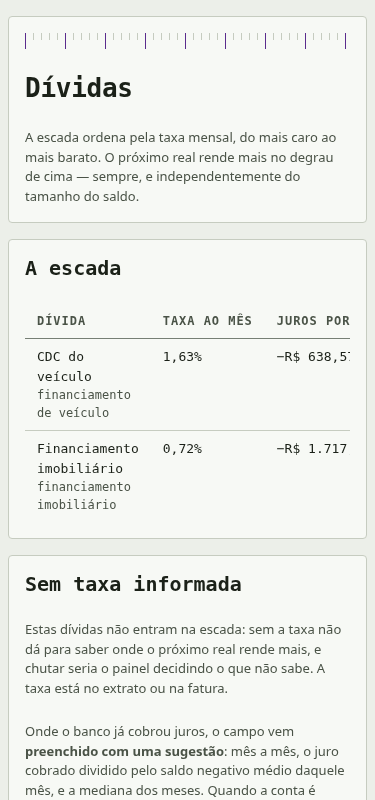
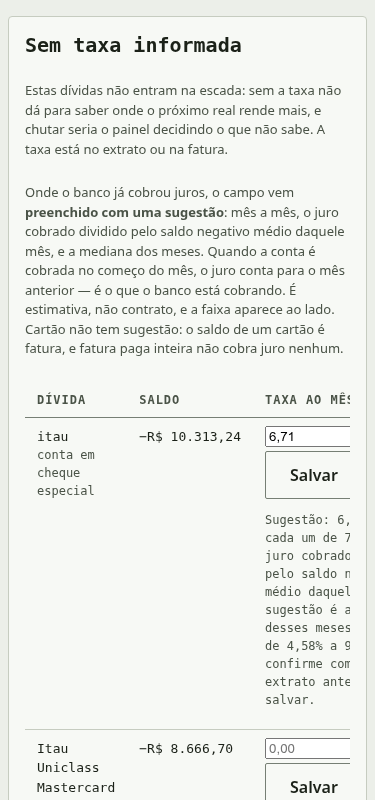
fix(014): the oldest month was measuring itself against its own truncation
Third blind verdict, approved, and the hunt found the last artefact. The
partial-month filter compared the negative days against the days the
reconstruction happens to hold, not against the calendar. The oldest month is
truncated by construction — the walk stops at the first movement — so it was
comparing itself to its own truncation and passing: fourteen of twenty-six
reconstructed days is over half, fourteen of thirty-one real days is not.

That month was the 3,13% floor of the CAIXA range. Its other months sit at 7,99,
8,00 and 8,16 — seventeen basis points apart, which is what a contracted
overdraft actually looks like. The range shown to the owner shrank from five
percentage points to seventeen basis points, and none of that was the bank.

And a month whose interest nets positive is no longer read as a charge: the base
carries five positive CREDITO JUROS postings, today on an account with a zero
balance, and taking the absolute value would read a refund as a rate.

diff --git a/app/debts/observed.py b/app/debts/observed.py
@@ -1,4 +1,5 @@
 import sqlite3
+from calendar import monthrange
 from datetime import date, timedelta
 
 from app.accounts import BANK
@@ -90,14 +91,14 @@ def _monthly_rates(
         charged = _charged_for(conn, account_id, month, arrears)
         if not charged:
             continue
-        in_month = [value for when, value in days.items() if when[:7] == month]
-        negative = [value for value in in_month if value < 0]
-        # A month with only a handful of days in the red divides a whole month of
-        # interest by a full average and reads far too low. It is the same
-        # distortion the month in progress caused, at the other end of the series
-        # — and the oldest month is partial by construction, because the walk
-        # stops at the first movement.
-        if len(negative) < len(in_month) * MIN_NEGATIVE_SHARE:
+        negative = [value for when, value in days.items() if when[:7] == month and value < 0]
+        # Measured against the days of the calendar month, not against the days
+        # the reconstruction happens to hold. The oldest month is truncated by
+        # construction — the walk stops at the first movement — so comparing it
+        # to its own truncated self lets it through: 14 of 26 reconstructed days
+        # passes, 14 of 31 real days does not. That is the same partial-month
+        # distortion the month in progress caused, surviving at the other end.
+        if len(negative) < _days_in(month) * MIN_NEGATIVE_SHARE:
             continue
         average = sum(negative) / len(negative)
         if abs(average) < MIN_BALANCE_CENTS:
@@ -113,13 +114,21 @@ def posts_in_arrears(conn: sqlite3.Connection, account_id: str) -> bool:
     return bool(days) and _median(days) <= EARLY_DAYS
 
 
+def _days_in(month: str) -> int:
+    return monthrange(int(month[:4]), int(month[5:7]))[1]
+
+
 def _charged_for(conn: sqlite3.Connection, account_id: str, month: str, arrears: bool) -> int:
     # The bank charges in arrears: the interest posted early in a month is the
     # price of the month before. Matching the posting to the month it was posted
     # in, instead of the month it remunerates, turned a contracted rate that
     # barely moves into a range three times wider than the real one.
     wanted = _next(month) if arrears else month
-    return conn.execute(_CHARGED, (account_id, wanted)).fetchone()["total"]
+    charged = conn.execute(_CHARGED, (account_id, wanted)).fetchone()["total"]
+    # Only money that left. A month whose interest line nets positive — a refund
+    # larger than the charge — is not a month the bank charged for, and taking
+    # its absolute value would read a credit as a rate.
+    return charged if charged < 0 else 0
 
 
 def _next(month: str) -> str:

diff --git a/tests/test_observed_rates.py b/tests/test_observed_rates.py
@@ -151,3 +151,37 @@ def test_the_month_in_progress_is_left_out(taxonomy_conn):
 
     assert "2026-09" not in months
     assert months
+
+
+def test_a_truncated_oldest_month_is_measured_against_the_calendar(taxonomy_conn):
+    from app.debts.observed import _monthly_rates, daily_balances
+
+    # The walk starts here, so June holds 26 reconstructed days, not 30.
+    rows = [transaction("c", "2026-06-05", -3000.0, descricao="Compra")]
+    rows += [
+        transaction(f"p-{day}", f"2026-06-{day}", 3000.0, descricao="Deposito")
+        for day in ("20",)
+    ]
+    rows += [transaction("j", "2026-07-02", -100.0, descricao="COBRANCA DE JUROS")]
+    for when in ("2026-07", "2026-08"):
+        rows += month("b", when, -3000.0, interest=-100.0)
+    conn = account(load(taxonomy_conn, rows), -300000)
+    days = daily_balances(conn, ACCOUNT["id"], -300000, REFERENCE)
+    months = [when for when, _ in _monthly_rates(conn, ACCOUNT["id"], days, REFERENCE)]
+
+    # 15 negative days of 30 in the calendar is under half, even though it is
+    # over half of the 26 days the reconstruction holds.
+    assert "2026-06" not in months
+
+
+def test_a_month_whose_interest_nets_positive_is_not_a_month_the_bank_charged(taxonomy_conn):
+    from app.debts.observed import _charged_for
+
+    rows = [
+        transaction("c", "2026-06-01", -1000.0, descricao="Compra"),
+        transaction("j", "2026-06-28", -200.0, descricao="Saída JUROS LIMITE DA CONTA"),
+        transaction("e", "2026-06-29", 500.0, descricao="CREDITO JUROS"),
+    ]
+    conn = account(load(taxonomy_conn, rows), -100000)
+
+    assert _charged_for(conn, ACCOUNT["id"], "2026-06", arrears=False) == 0

diff --git a/product/items/014-taxa-sugerida-pelos-juros-cobrados/03-plan.md b/product/items/014-taxa-sugerida-pelos-juros-cobrados/03-plan.md
@@ -22,7 +22,7 @@ DASH_KEY_PATH=/tmp/dash-014.key DASH_TODAY=2026-09-05 .venv/bin/python -m app`.
       o mapa, mostra **duas** contas: uma chamada `itau`, com `median_bp` igual a
       `671`, `lowest_bp` igual a `458`, `highest_bp` igual a `984` e `months`
       igual a `7`; e uma chamada `CAIXA`, com `median_bp` igual a `800` e
-      `months` igual a `4`
+      `months` igual a `3`
 - [ ] `comando` — RF-13, RF-14
       `rtk proxy env DASH_ENV_FILE=/dev/null .venv/bin/python -m pytest -q
       tests/test_observed_rates.py` sai com código 0, e o arquivo contém um teste
@@ -31,7 +31,10 @@ DASH_KEY_PATH=/tmp/dash-014.key DASH_TODAY=2026-09-05 .venv/bin/python -m app`.
       6** — o dia em que a conta real posta, e o que um corte fixo em cinco dias
       não alcançava; outro que afirma que conta que posta no fim do mês **não**
       cobra em atraso; outro que afirma que o **mês em curso** não entra; e outro
-      que afirma que a mediana de uma contagem par é **arredondada**
+      que afirma que a mediana de uma contagem par é **arredondada**; outro que
+      afirma que o mês mais antigo, truncado pela reconstrução, é medido contra os
+      dias do **calendário** e não contra os dias reconstruídos; e outro que
+      afirma que um mês cujo juro **líquido é positivo** não conta como cobrança
 - [ ] `comando` — RF-15
       `rtk proxy env DASH_ENV_FILE=/dev/null DASH_DB_PATH=/tmp/dash-014.sqlite
       .venv/bin/python -c` com um trecho que conta as tags do bloco
@@ -43,7 +46,7 @@ DASH_KEY_PATH=/tmp/dash-014.key DASH_TODAY=2026-09-05 .venv/bin/python -m app`.
       http://127.0.0.1:8000/dividas` é executado
       *Então* a resposta é `200`; o bloco `id="sem-taxa"` traz **exatamente
       dois** elementos com `data-sugerida`, com os valores `671` e `800` e os
-      `data-faixa` `458-984` e `313-816`; o campo de taxa da linha do `itau` vem
+      `data-faixa` `458-984` e `799-816`; o campo de taxa da linha do `itau` vem
       com `value="6,71"`; e **nenhuma** linha de cartão traz `data-sugerida`
 - [ ] `comportamental` — RF-11
       *Dado* o servidor rodando e um cookie válido
@@ -71,7 +74,7 @@ DASH_KEY_PATH=/tmp/dash-014.key DASH_TODAY=2026-09-05 .venv/bin/python -m app`.
 - [ ] `comando` — portão de lint
       `rtk proxy bash scripts/lint.sh` sai com código 0
 - [ ] `comando` — RF-12
-      `rtk proxy grep -REn --exclude-dir=__pycache__ "\b(671|800|458|984|313|816)\b"
+      `rtk proxy grep -REn --exclude-dir=__pycache__ "\b(671|800|458|984|799|816)\b"
       app/debts app/routers/debts.py app/templates/dividas.html` não imprime
       nenhuma linha
 - [ ] `estrutural` — RF-10

diff --git a/product/items/014-taxa-sugerida-pelos-juros-cobrados/01-brief.md b/product/items/014-taxa-sugerida-pelos-juros-cobrados/01-brief.md
@@ -16,7 +16,7 @@
 - **RF-07** — A sugestão é a **mediana** dos meses, e a tela mostra também o
   **menor e o maior** — a faixa do `itau` vai de 4,58% a 9,84%.
 - **RF-08** — Na base de 05/09/2026 a sugestão do `itau` é **6,71% ao mês** sobre
-  7 meses, com faixa de 4,58% a 9,84%, e a da `CAIXA` é **8,00%** sobre 4 meses.
+  7 meses, com faixa de 4,58% a 9,84%, e a da `CAIXA` é **8,00%** sobre 3 meses, com faixa de 7,99% a 8,16% — dezessete pontos-base, que é como uma taxa contratada se parece.
 - **RF-09** — **Cartão não recebe sugestão.** O saldo de um cartão é fatura, e
   fatura paga inteira não cobra juro; os encargos pequenos que aparecem não são
   rotativo sobre o saldo, e derivar deles daria um número falso.
@@ -30,10 +30,16 @@
   lançamentos dela: um corte fixo em dias alcançava a conta que posta no dia 1º e
   **não** a que posta no dia 6, jogando fora 31% do juro dessa segunda — a maior
   cobrança da série, atribuída a um mês que a conta passou inteiro no azul.
-- **RF-16** — Mês com menos da **metade** dos dias no vermelho é descartado: um
-  juro de mês inteiro dividido por uma média cheia lê baixo demais. É a mesma
-  distorção do mês em curso, na outra ponta — e o mês mais antigo é parcial por
-  construção, porque a reconstrução para no primeiro lançamento.
+- **RF-16** — Mês com menos da **metade** dos dias no vermelho é descartado, e a
+  conta é feita contra os dias do **calendário**, não contra os dias que a
+  reconstrução tem. O mês mais antigo é truncado por construção — a caminhada
+  para no primeiro lançamento —, então compará-lo consigo mesmo o deixa passar:
+  14 de 26 dias reconstruídos passa, 14 de 31 dias reais não. Era esse mês que
+  formava o piso de 3,13% na faixa da `CAIXA`, cujos outros meses variam 17
+  pontos-base entre si.
+- **RF-17** — Mês cujo juro **líquido é positivo** não conta como cobrança. A
+  base tem cinco lançamentos `CREDITO JUROS` positivos; tomar o valor absoluto
+  leria um estorno como taxa.
 - **RF-14** — O **mês em curso** não entra: cinco dias de saldo sob um mês
   inteiro de juros lê como uma taxa três vezes a real, e era ele quem produzia o
   extremo superior da faixa mostrada.
